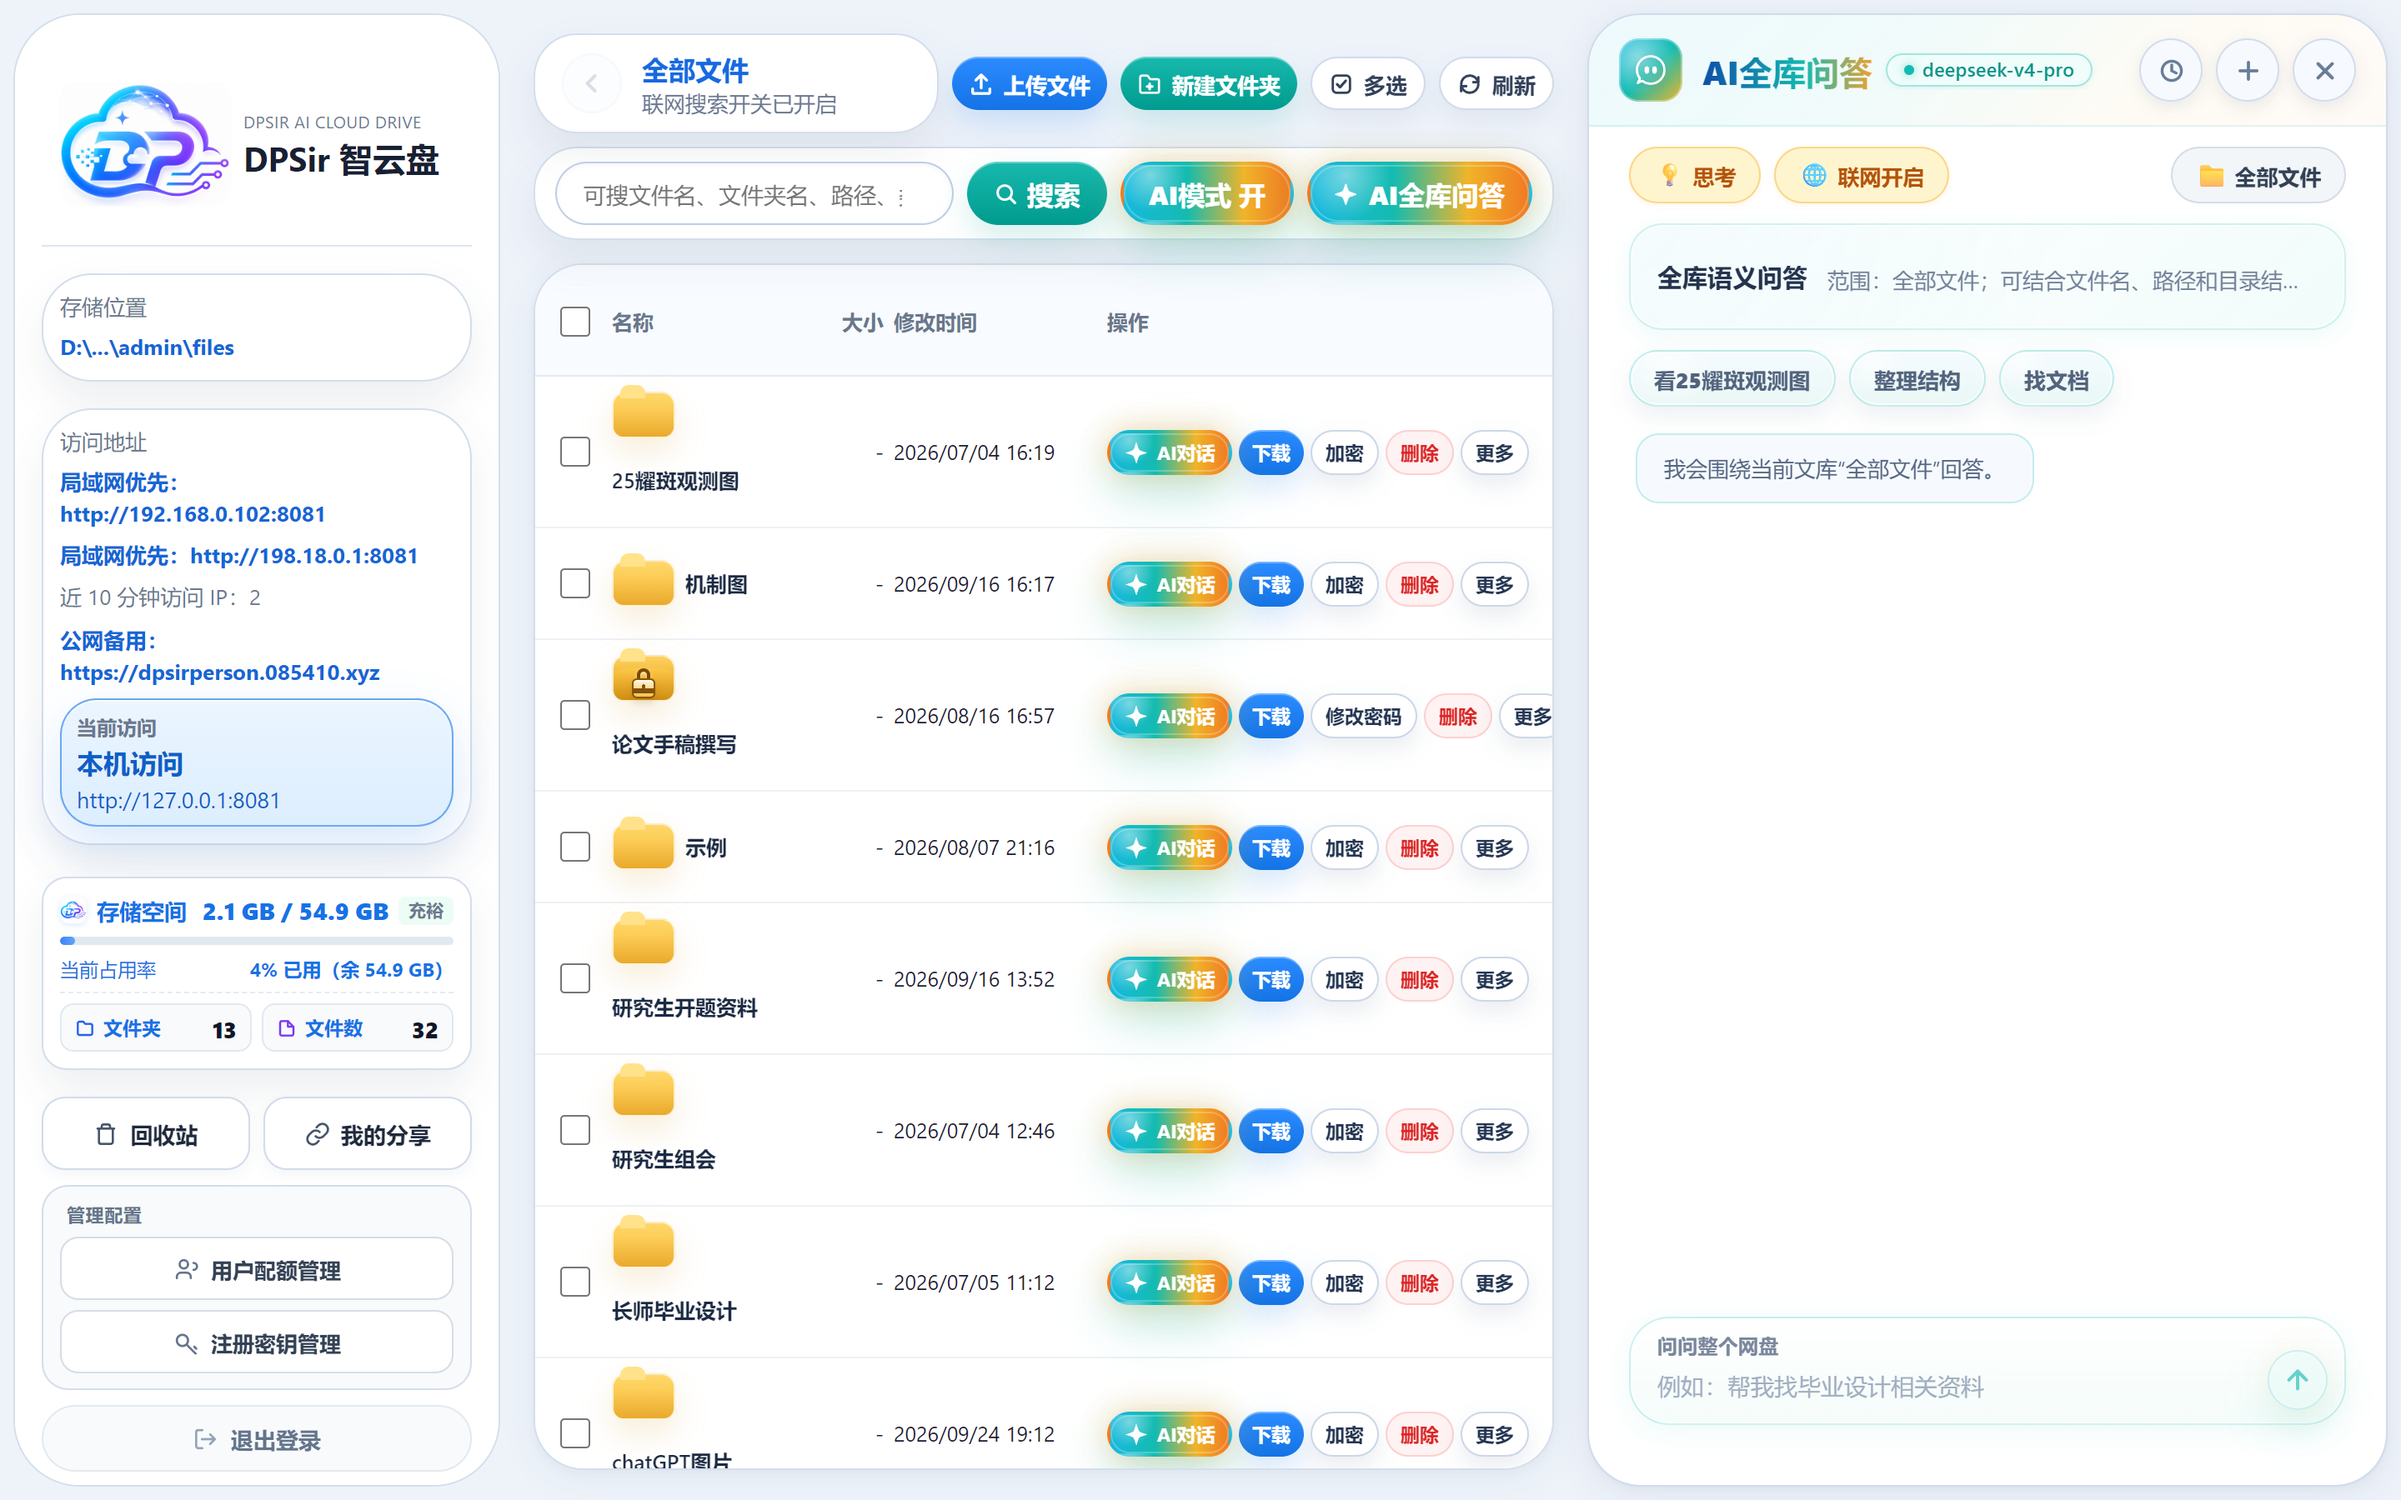
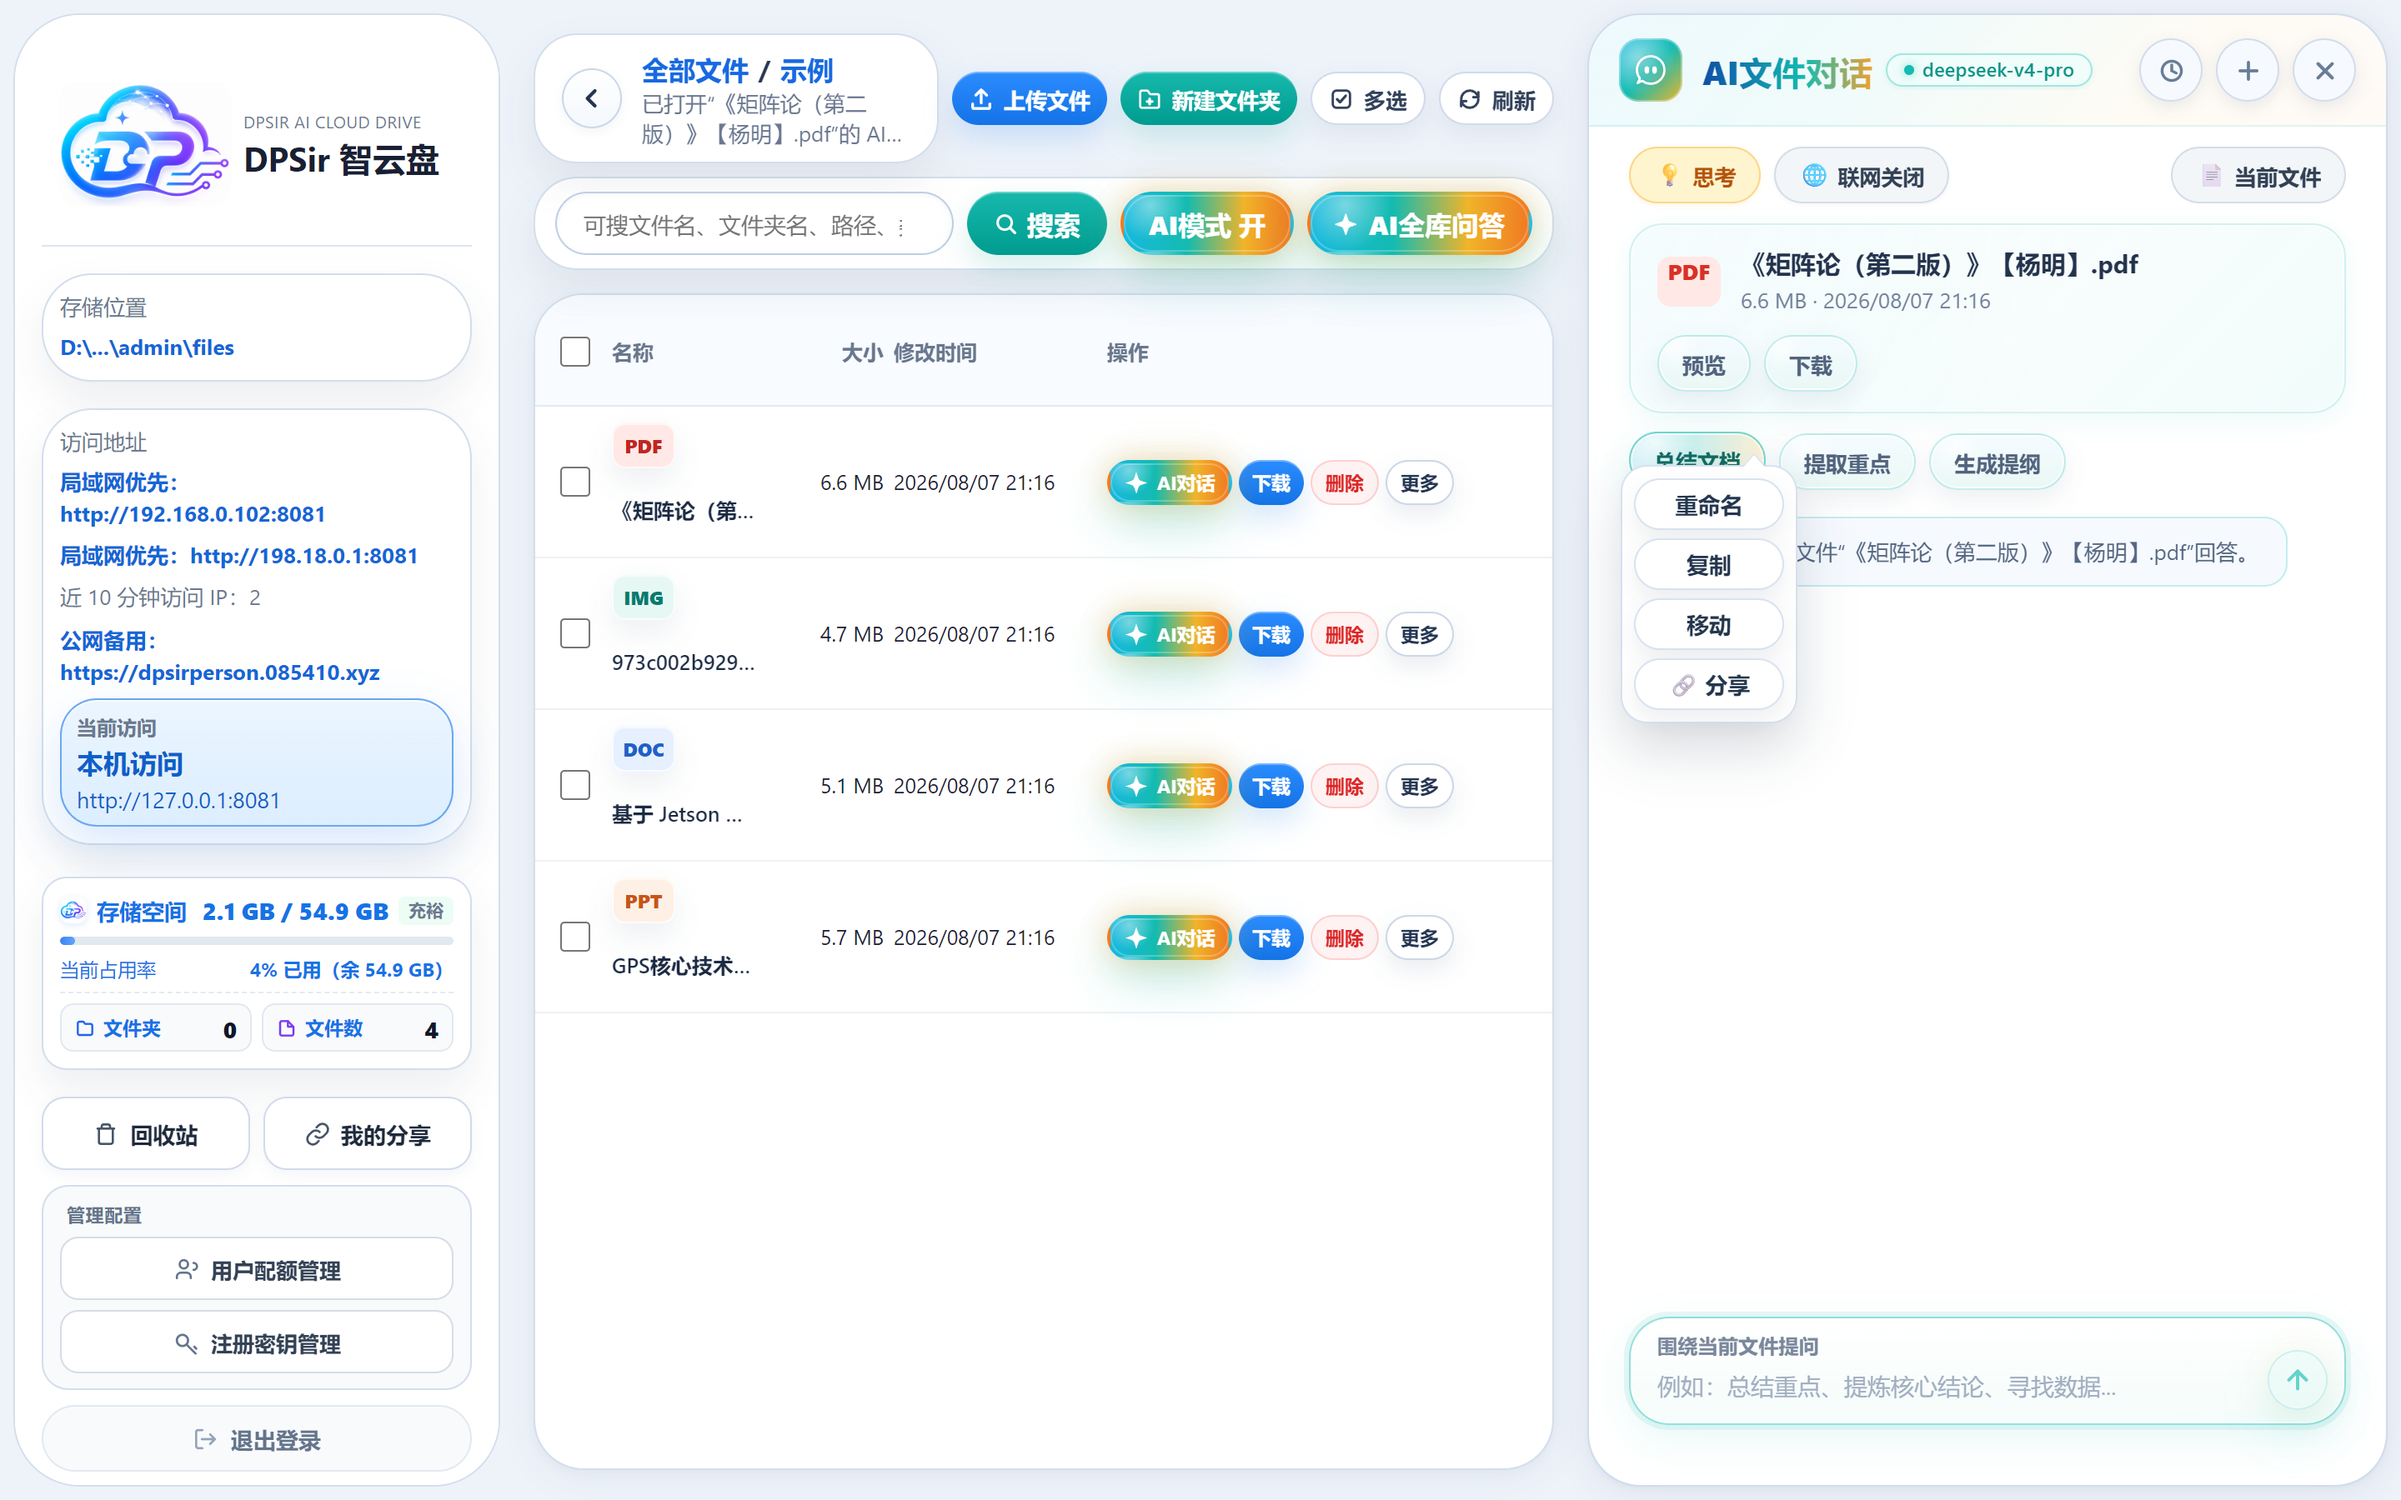
fix: standardize AI dialog into strictly three scopes: AI全库问答, AI文件夹对话, AI文件对话

diff --git a/public/app.js b/public/app.js
@@ -580,7 +580,7 @@ function getCurrentAiScope() {
   // mode === "global": differentiate folder-level vs root global scope
   const currentPath = (state.path || "").trim();
   if (currentPath) {
-    const folderName = currentPath.split("/").filter(Boolean).pop() || displayFolder(currentPath) || "当前目录";
+    const folderName = currentPath.split("/").filter(Boolean).pop() || displayFolder(currentPath) || "当前文件夹";
     return {
       type: "folder",
       key: `folder:${currentPath}`,
@@ -717,7 +717,7 @@ function renderAiHistoryPanel() {
     if (currentScope.type === "item") {
       aiHistoryTitleText.textContent = `文件历史 (${currentScope.label})`;
     } else if (currentScope.type === "folder") {
-      aiHistoryTitleText.textContent = `目录历史 (${currentScope.label})`;
+      aiHistoryTitleText.textContent = `文件夹历史 (${currentScope.label})`;
     } else {
       aiHistoryTitleText.textContent = "全库问答历史";
     }
@@ -728,7 +728,7 @@ function renderAiHistoryPanel() {
     if (currentScope.type === "item") {
       aiClearAllHistoryBtn.textContent = "清空本文件记录";
     } else if (currentScope.type === "folder") {
-      aiClearAllHistoryBtn.textContent = "清空本目录记录";
+      aiClearAllHistoryBtn.textContent = "清空本文件夹记录";
     } else {
       aiClearAllHistoryBtn.textContent = "清空全库记录";
     }
@@ -739,7 +739,7 @@ function renderAiHistoryPanel() {
   }
 
   if (!sessions.length) {
-    const typeLabel = currentScope.type === "item" ? "文件" : (currentScope.type === "folder" ? "目录" : "全库问答");
+    const typeLabel = currentScope.type === "item" ? "文件" : (currentScope.type === "folder" ? "文件夹" : "全库问答");
     aiHistoryList.innerHTML = `
       <div class="ai-history-empty">
         <div class="ai-history-empty-icon">💬</div>
@@ -755,7 +755,7 @@ function renderAiHistoryPanel() {
     const isCurrent = session.id === state.currentAiSessionId;
     const timeStr = formatAiSessionTime(session.updatedAt);
     const turnCount = (session.messages || []).filter((m) => m.role === "user").length;
-    const scopeBadgeLabel = session.targetLabel || (currentScope.type === "item" ? currentScope.label : (currentScope.type === "folder" ? `目录: ${currentScope.label}` : "全局资料库"));
+    const scopeBadgeLabel = session.targetLabel || (currentScope.type === "item" ? currentScope.label : (currentScope.type === "folder" ? `文件夹: ${currentScope.label}` : "全局资料库"));
 
     const card = document.createElement("div");
     card.className = `ai-history-card${isCurrent ? " active" : ""}`;
@@ -909,12 +909,12 @@ async function clearAllAiSessions() {
 
   const isItem = currentScope.type === "item";
   const isFolder = currentScope.type === "folder";
-  const title = isItem ? "清空本文件历史记录" : (isFolder ? "清空本目录历史记录" : "清空全库历史会话");
+  const title = isItem ? "清空本文件历史记录" : (isFolder ? "清空本文件夹历史记录" : "清空全库历史会话");
   const description = isItem
-    ? `确定要清空关于“${currentScope.label}”的 ${targetSessions.length} 条历史会话吗？（其他文件、目录与全库历史不受影响）`
+    ? `确定要清空关于“${currentScope.label}”的 ${targetSessions.length} 条历史会话吗？（其他文件、文件夹与全库历史不受影响）`
     : (isFolder
-      ? `确定要清空关于“${currentScope.label}”目录的 ${targetSessions.length} 条历史会话吗？（其他目录、文件与全库历史不受影响）`
-      : `确定要清空全库问答的 ${targetSessions.length} 条历史会话吗？（各文件与各目录的历史会话不受影响）`);
+      ? `确定要清空关于“${currentScope.label}”文件夹的 ${targetSessions.length} 条历史会话吗？（其他文件夹、文件与全库历史不受影响）`
+      : `确定要清空全库问答的 ${targetSessions.length} 条历史会话吗？（各文件与各文件夹的历史会话不受影响）`);
 
   const confirmed = await openDialog({
     eyebrow: "会话管理",
@@ -935,7 +935,7 @@ async function clearAllAiSessions() {
   renderAiHistoryPanel();
   const statusMsg = isItem
     ? "已清空本文件的历史会话记录"
-    : (isFolder ? "已清空本目录的历史会话记录" : "已清空全库问答历史记录");
+    : (isFolder ? "已清空本文件夹的历史会话记录" : "已清空全库问答历史记录");
   setStatus(statusMsg);
 }
 
@@ -1011,7 +1011,7 @@ function openAiDrawer(mode = "global", item = null, options = {}) {
   const currentScope = getCurrentAiScope();
   setStatus(state.aiDrawer.mode === "item" && item
     ? `已打开“${itemName(item)}”的 AI 对话`
-    : (currentScope.type === "folder" ? `已打开“${currentScope.label}”的 AI 问答` : "已打开 AI 全库问答"));
+    : (currentScope.type === "folder" ? `已打开“${currentScope.label}”的 AI 文件夹对话` : "已打开 AI 全库问答"));
 
   // Defer session storage persistence until animation completes smoothly
   window.setTimeout(() => {
@@ -1040,7 +1040,7 @@ function returnToAiGlobalDrawer() {
     aiPromptInput?.focus({ preventScroll: true });
   }, 100);
   const currentScope = getCurrentAiScope();
-  setStatus(currentScope.type === "folder" ? `已返回“${currentScope.label}”的 AI 问答` : "已返回 AI 全库问答");
+  setStatus(currentScope.type === "folder" ? `已返回“${currentScope.label}”的 AI 文件夹对话` : "已返回 AI 全库问答");
   window.setTimeout(() => {
     archiveCurrentAiSession();
     saveAiConversation();
@@ -1231,11 +1231,14 @@ function renderAiContextCard() {
   if (!aiContextCard) return;
   aiContextCard.replaceChildren();
   if (state.aiDrawer.mode === "global") {
+    const isFolder = Boolean(state.path);
     const title = document.createElement("strong");
-    title.textContent = "全库语义问答";
+    title.textContent = isFolder ? "AI文件夹对话" : "AI全库问答";
     const desc = document.createElement("span");
     const scopePath = state.path ? `全部文件 / ${state.path}` : "全部文件";
-    desc.textContent = `范围：${scopePath}；可结合文件名、路径和目录结构。`;
+    desc.textContent = isFolder
+      ? `范围：${scopePath}；围绕当前文件夹内容进行问答与梳理。`
+      : `范围：${scopePath}；可结合文件名、路径和全库结构。`;
     aiContextCard.append(title, desc);
     return;
   }
@@ -2096,9 +2099,9 @@ function buildAiSuggestionItems() {
   if (!items.length) {
     return state.aiDrawer.mode === "global"
       ? [
-          ["整理结构", "帮我梳理当前目录的资料结构，并列出最值得先看的文件夹。"],
-          ["查找文档", "帮我找和当前目录相关的文档、报告或论文资料。"],
-          ["筛选素材", "帮我筛选当前目录里可能有用的图片、表格或其他素材。"],
+          ["整理结构", "帮我梳理当前文件夹的资料结构，并列出最值得先看的文件夹。"],
+          ["查找文档", "帮我找和当前文件夹相关的文档、报告或论文资料。"],
+          ["筛选素材", "帮我筛选当前文件夹里可能有用的图片、表格或其他素材。"],
         ]
       : [
           ["总结", "总结这个文件的主要内容。"],
@@ -2212,7 +2215,7 @@ function renderAiDrawer() {
     if (isItemMode) {
       titleText = item?.type === "folder" ? "AI文件夹对话" : "AI文件对话";
     } else {
-      titleText = currentScope.type === "folder" ? "AI目录问答" : "AI全库问答";
+      titleText = currentScope.type === "folder" ? "AI文件夹对话" : "AI全库问答";
     }
     aiDrawerTitle.innerHTML = `<span class="title-text">${titleText}</span><span class="model-badge">${escapeHtml(aiModelDisplayName())}</span>`;
   }
@@ -2232,7 +2235,7 @@ function renderAiDrawer() {
     if (isItemMode && item) {
       if (item.type === "folder") {
         scopeIcon = "📂";
-        scopeText = `目录：${itemName(item)}`;
+        scopeText = `文件夹：${itemName(item)}`;
         scopeFull = item.path ? `全部文件 / ${item.path}` : itemName(item);
       } else {
         scopeIcon = "📄";
@@ -2240,9 +2243,9 @@ function renderAiDrawer() {
         scopeFull = item.path ? `全部文件 / ${item.path}` : itemName(item);
       }
     } else if (currentScope.type === "folder") {
-      const folderName = displayFolder(state.path || "") || "当前目录";
+      const folderName = displayFolder(state.path || "") || "当前文件夹";
       scopeIcon = "📂";
-      scopeText = `目录：${folderName}`;
+      scopeText = `文件夹：${folderName}`;
       scopeFull = state.path ? `全部文件 / ${state.path}` : folderName;
     } else {
       scopeIcon = "📁";
@@ -2261,12 +2264,12 @@ function renderAiDrawer() {
   if (aiPromptHint) {
     aiPromptHint.textContent = isItemMode
       ? (item?.type === "folder" ? "围绕当前文件夹提问" : "围绕当前文件提问")
-      : (currentScope.type === "folder" ? "围绕当前目录提问" : "问问整个网盘");
+      : (currentScope.type === "folder" ? "围绕当前文件夹提问" : "问问整个网盘");
   }
   if (aiPromptInput) {
     aiPromptInput.placeholder = isItemMode
       ? (item?.type === "folder" ? "例如：梳理包含哪些资料、查找核心文档..." : "例如：总结重点、提炼核心结论、寻找数据...")
-      : (currentScope.type === "folder" ? "例如：梳理当前目录资料、按类型总结..." : "例如：帮我找毕业设计相关资料");
+      : (currentScope.type === "folder" ? "例如：梳理当前文件夹资料、按类型总结..." : "例如：帮我找毕业设计相关资料");
   }
   renderAiContextCard();
   renderAiSuggestionsDynamic();
